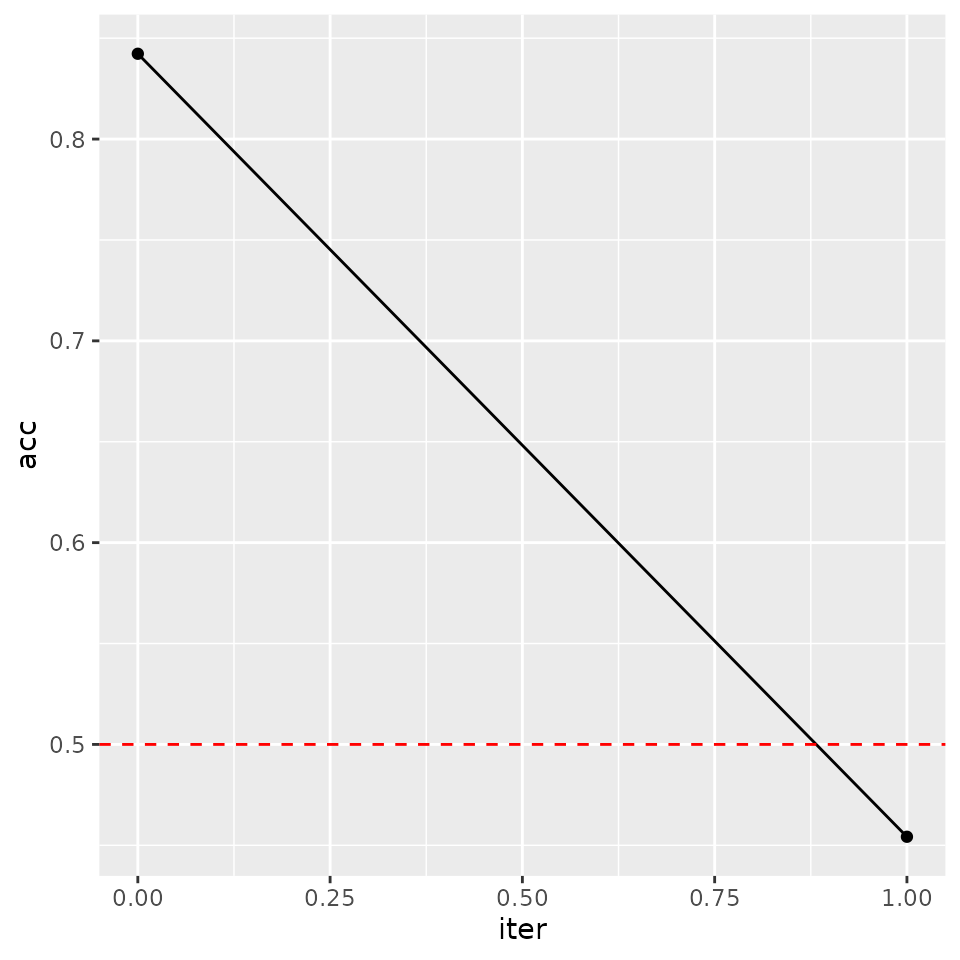
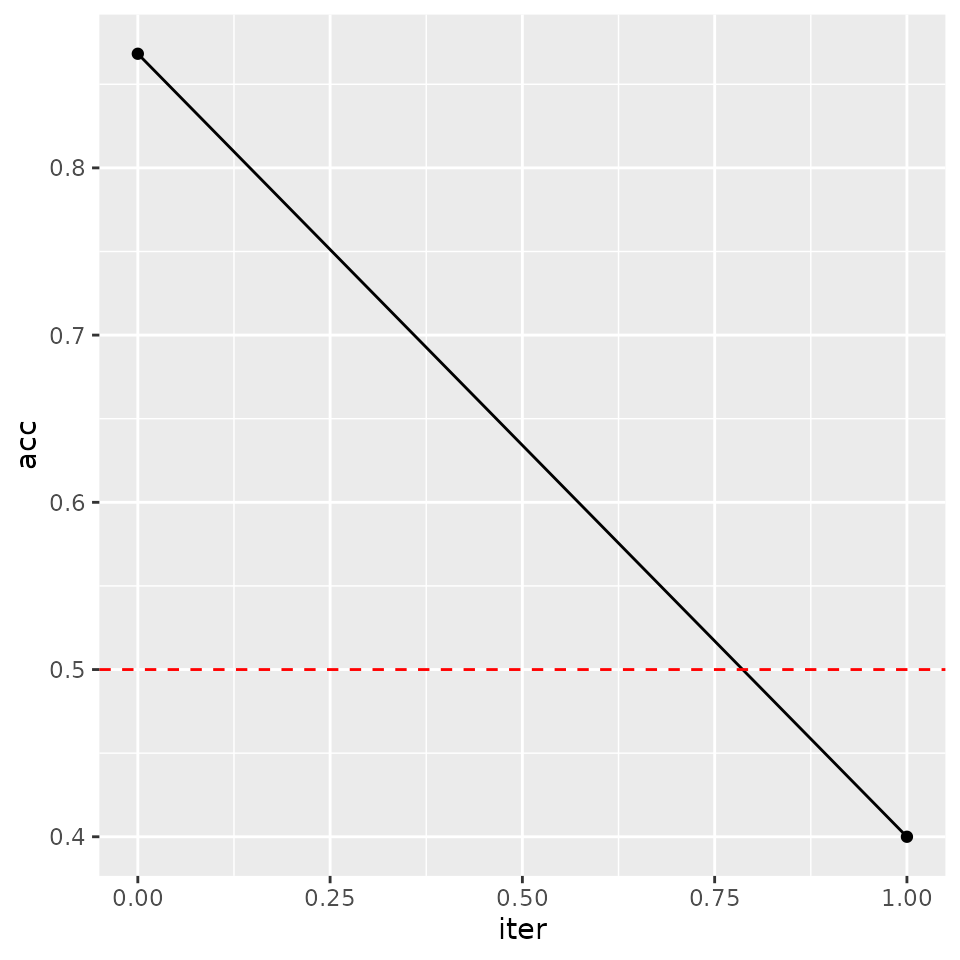
Deploying to gh-pages from @ bips-hb/arf@7e606f576e50f99192aab383e6873d7377e45529 🚀

diff --git a/articles/density_estimation.html b/articles/density_estimation.html
@@ -97,9 +97,9 @@ accuracy at each iteration.</p>
 <span></span>
 <span><span class="co"># Train ARF</span></span>
 <span><span class="va">arf</span> <span class="op">&lt;-</span> <span class="fu"><a href="../reference/adversarial_rf.html">adversarial_rf</a></span><span class="op">(</span><span class="va">iris</span><span class="op">)</span></span>
-<span><span class="co">#&gt; Iteration: 0, Accuracy: 82.94%</span></span>
+<span><span class="co">#&gt; Iteration: 0, Accuracy: 88%</span></span>
 <span><span class="co">#&gt; Warning: executing %dopar% sequentially: no parallel backend registered</span></span>
-<span><span class="co">#&gt; Iteration: 1, Accuracy: 42.62%</span></span></code></pre></div>
+<span><span class="co">#&gt; Iteration: 1, Accuracy: 39.86%</span></span></code></pre></div>
 <p>The printouts can be turned off by setting
 <code>verbose = FALSE</code>. Accuracy is still stored within the
 <code>arf</code> object, so you can evaluate convergence after the
@@ -127,16 +127,18 @@ incur extra costs in time and memory. We can speed up computations by
 registering a parallel backend, in which case ARF training is
 distributed across cores using the <code>ranger</code> package. Much
 like with <code>ranger</code>, the default behavior of
-<code>adversarial_rf</code> is to compute in parallel if possible.</p>
+<code>adversarial_rf</code> is to compute in parallel if possible. How
+exactly this is done varies across operating systems; the following code
+works on Unix machines.</p>
 <div class="sourceCode" id="cb3"><pre class="downlit sourceCode r">
-<code class="sourceCode R"><span><span class="kw"><a href="https://rdrr.io/r/base/library.html" class="external-link">library</a></span><span class="op">(</span><span class="va"><a href="https://github.com/RevolutionAnalytics/doparallel" class="external-link">doParallel</a></span><span class="op">)</span></span>
-<span><span class="co">#&gt; Loading required package: foreach</span></span>
-<span><span class="co">#&gt; Loading required package: iterators</span></span>
-<span><span class="co">#&gt; Loading required package: parallel</span></span>
-<span><span class="fu"><a href="https://rdrr.io/pkg/doParallel/man/registerDoParallel.html" class="external-link">registerDoParallel</a></span><span class="op">(</span>cores <span class="op">=</span> <span class="fl">2</span><span class="op">)</span></span>
+<code class="sourceCode R"><span><span class="co"># Register cores</span></span>
+<span><span class="kw"><a href="https://rdrr.io/r/base/library.html" class="external-link">library</a></span><span class="op">(</span><span class="va"><a href="https://github.com/RevolutionAnalytics/doparallel" class="external-link">doParallel</a></span><span class="op">)</span></span>
+<span><span class="fu"><a href="https://rdrr.io/pkg/doParallel/man/registerDoParallel.html" class="external-link">registerDoParallel</a></span><span class="op">(</span>cores <span class="op">=</span> <span class="fl">2</span><span class="op">)</span></span></code></pre></div>
+<div class="sourceCode" id="cb4"><pre class="downlit sourceCode r">
+<code class="sourceCode R"><span><span class="co"># Rerun ARF, now in parallel and with more trees</span></span>
 <span><span class="va">arf</span> <span class="op">&lt;-</span> <span class="fu"><a href="../reference/adversarial_rf.html">adversarial_rf</a></span><span class="op">(</span><span class="va">iris</span>, num_trees <span class="op">=</span> <span class="fl">100</span><span class="op">)</span></span>
-<span><span class="co">#&gt; Iteration: 0, Accuracy: 93.67%</span></span>
-<span><span class="co">#&gt; Iteration: 1, Accuracy: 42%</span></span></code></pre></div>
+<span><span class="co">#&gt; Iteration: 0, Accuracy: 90.67%</span></span>
+<span><span class="co">#&gt; Iteration: 1, Accuracy: 34.33%</span></span></code></pre></div>
 <p>The result is an object of class <code>ranger</code>, which we can
 input to downstream functions.</p>
 <p>The next step is to learn the leaf and distribution parameters using
@@ -146,7 +148,7 @@ leaf. This can be an expensive computation for large datasets, as it
 requires <span class="math inline">\(\mathcal{O}\big(B \cdot d \cdot n
 \cdot log(n)\big)\)</span> operations, where <span class="math inline">\(B\)</span> is the number of trees, <span class="math inline">\(n\)</span> is sample size, and <span class="math inline">\(d\)</span> is the data dimensionality. Once again,
 the process is parallelized by default.</p>
-<div class="sourceCode" id="cb4"><pre class="downlit sourceCode r">
+<div class="sourceCode" id="cb5"><pre class="downlit sourceCode r">
 <code class="sourceCode R"><span><span class="va">params</span> <span class="op">&lt;-</span> <span class="fu"><a href="../reference/forde.html">forde</a></span><span class="op">(</span><span class="va">arf</span>, <span class="va">iris</span><span class="op">)</span></span></code></pre></div>
 <p>Default behavior is to use a truncated normal distribution for
 continuous data (with boundaries given by the tree’s split parameters)
@@ -155,7 +157,7 @@ produces solid results in a wide range of settings. You can also use a
 uniform distribution for continuous features by setting
 <code>family = 'unif'</code>, thereby instantiating a piecewise constant
 density estimator.</p>
-<div class="sourceCode" id="cb5"><pre class="downlit sourceCode r">
+<div class="sourceCode" id="cb6"><pre class="downlit sourceCode r">
 <code class="sourceCode R"><span><span class="va">params_unif</span> <span class="op">&lt;-</span> <span class="fu"><a href="../reference/forde.html">forde</a></span><span class="op">(</span><span class="va">arf</span>, <span class="va">iris</span>, family <span class="op">=</span> <span class="st">'unif'</span><span class="op">)</span></span></code></pre></div>
 <p>This method tends to perform poorly in practice, and we do not
 recommend it. The option is implemented primarily for benchmarking
@@ -165,49 +167,49 @@ expand the range of options for this argument.</p>
 <p>The <code>forde</code> function outputs a list of length 4, with
 entries for (1) continuous features; (2) categorical features; (3) leaf
 parameters; and (4) variable metadata.</p>
-<div class="sourceCode" id="cb6"><pre class="downlit sourceCode r">
+<div class="sourceCode" id="cb7"><pre class="downlit sourceCode r">
 <code class="sourceCode R"><span><span class="va">params</span></span>
 <span><span class="co">#&gt; $cnt</span></span>
-<span><span class="co">#&gt;           variable  min max f_idx       mu      sigma</span></span>
-<span><span class="co">#&gt;    1: Sepal.Length -Inf Inf     8 4.937500 0.21960375</span></span>
-<span><span class="co">#&gt;    2: Sepal.Length -Inf Inf     7 4.657143 0.28199966</span></span>
-<span><span class="co">#&gt;    3: Sepal.Length -Inf Inf    19 5.475000 0.15000000</span></span>
-<span><span class="co">#&gt;    4: Sepal.Length -Inf Inf    18 5.433333 0.05773503</span></span>
-<span><span class="co">#&gt;    5: Sepal.Length 5.35 Inf     9 5.666667 0.15275252</span></span>
-<span><span class="co">#&gt;   ---                                                </span></span>
-<span><span class="co">#&gt; 6312:  Petal.Width -Inf Inf  1571 2.145455 0.25441555</span></span>
-<span><span class="co">#&gt; 6313:  Petal.Width -Inf Inf  1578 1.983333 0.23166067</span></span>
-<span><span class="co">#&gt; 6314:  Petal.Width -Inf Inf  1574 2.052941 0.30642627</span></span>
-<span><span class="co">#&gt; 6315:  Petal.Width 1.90 Inf  1568 2.100000 0.14142136</span></span>
-<span><span class="co">#&gt; 6316:  Petal.Width 1.95 Inf  1575 2.200000 0.17320508</span></span>
+<span><span class="co">#&gt;           variable  min  max f_idx       mu      sigma</span></span>
+<span><span class="co">#&gt;    1: Sepal.Length -Inf  Inf     9 5.004000 0.27306898</span></span>
+<span><span class="co">#&gt;    2: Sepal.Length -Inf 5.25     1 4.612500 0.26958964</span></span>
+<span><span class="co">#&gt;    3: Sepal.Length -Inf  Inf     8 5.040000 0.23664319</span></span>
+<span><span class="co">#&gt;    4: Sepal.Length -Inf  Inf     2 5.566667 0.20816660</span></span>
+<span><span class="co">#&gt;    5: Sepal.Length -Inf  Inf     4 5.700000 0.10314940</span></span>
+<span><span class="co">#&gt;   ---                                                 </span></span>
+<span><span class="co">#&gt; 6820:  Petal.Width -Inf  Inf  1706 1.342857 0.05345225</span></span>
+<span><span class="co">#&gt; 6821:  Petal.Width -Inf  Inf  1699 1.200000 0.35361911</span></span>
+<span><span class="co">#&gt; 6822:  Petal.Width 1.45  Inf  1701 2.082143 0.26112800</span></span>
+<span><span class="co">#&gt; 6823:  Petal.Width -Inf  Inf  1703 1.966667 0.22509257</span></span>
+<span><span class="co">#&gt; 6824:  Petal.Width -Inf  Inf  1688 2.114286 0.15735916</span></span>
 <span><span class="co">#&gt; </span></span>
 <span><span class="co">#&gt; $cat</span></span>
 <span><span class="co">#&gt;       variable       val      prob f_idx</span></span>
-<span><span class="co">#&gt;    1:  Species    setosa 1.0000000     8</span></span>
-<span><span class="co">#&gt;    2:  Species    setosa 1.0000000     7</span></span>
-<span><span class="co">#&gt;    3:  Species    setosa 1.0000000    19</span></span>
-<span><span class="co">#&gt;    4:  Species    setosa 1.0000000    18</span></span>
-<span><span class="co">#&gt;    5:  Species    setosa 1.0000000     9</span></span>
+<span><span class="co">#&gt;    1:  Species    setosa 1.0000000     9</span></span>
+<span><span class="co">#&gt;    2:  Species    setosa 1.0000000     1</span></span>
+<span><span class="co">#&gt;    3:  Species    setosa 1.0000000     8</span></span>
+<span><span class="co">#&gt;    4:  Species    setosa 1.0000000     2</span></span>
+<span><span class="co">#&gt;    5:  Species    setosa 1.0000000     4</span></span>
 <span><span class="co">#&gt;   ---                                   </span></span>
-<span><span class="co">#&gt; 1870:  Species virginica 0.2857143  1579</span></span>
-<span><span class="co">#&gt; 1871:  Species virginica 0.3076923  1577</span></span>
-<span><span class="co">#&gt; 1872:  Species virginica 1.0000000  1568</span></span>
-<span><span class="co">#&gt; 1873:  Species virginica 0.2000000  1573</span></span>
-<span><span class="co">#&gt; 1874:  Species virginica 1.0000000  1575</span></span>
+<span><span class="co">#&gt; 2135:  Species virginica 1.0000000  1703</span></span>
+<span><span class="co">#&gt; 2136:  Species virginica 0.8333333  1695</span></span>
+<span><span class="co">#&gt; 2137:  Species virginica 1.0000000  1688</span></span>
+<span><span class="co">#&gt; 2138:  Species virginica 0.6000000  1700</span></span>
+<span><span class="co">#&gt; 2139:  Species virginica 0.1428571  1706</span></span>
 <span><span class="co">#&gt; </span></span>
 <span><span class="co">#&gt; $forest</span></span>
 <span><span class="co">#&gt;       f_idx tree leaf        cvg</span></span>
-<span><span class="co">#&gt;    1:     1    1   20 0.03333333</span></span>
-<span><span class="co">#&gt;    2:     2    1   22 0.03333333</span></span>
-<span><span class="co">#&gt;    3:     3    1   31 0.02000000</span></span>
-<span><span class="co">#&gt;    4:     4    1   40 0.08000000</span></span>
-<span><span class="co">#&gt;    5:     5    1   41 0.02666667</span></span>
+<span><span class="co">#&gt;    1:     1    1    8 0.05333333</span></span>
+<span><span class="co">#&gt;    2:     2    1   14 0.02000000</span></span>
+<span><span class="co">#&gt;    3:     3    1   25 0.02000000</span></span>
+<span><span class="co">#&gt;    4:     4    1   33 0.01333333</span></span>
+<span><span class="co">#&gt;    5:     5    1   35 0.02000000</span></span>
 <span><span class="co">#&gt;   ---                           </span></span>
-<span><span class="co">#&gt; 1575:  1575  100   69 0.02000000</span></span>
-<span><span class="co">#&gt; 1576:  1576  100   72 0.08000000</span></span>
-<span><span class="co">#&gt; 1577:  1577  100   77 0.17333333</span></span>
-<span><span class="co">#&gt; 1578:  1578  100   80 0.04000000</span></span>
-<span><span class="co">#&gt; 1579:  1579  100   84 0.04666667</span></span>
+<span><span class="co">#&gt; 1702:  1702  100   82 0.09333333</span></span>
+<span><span class="co">#&gt; 1703:  1703  100   85 0.04000000</span></span>
+<span><span class="co">#&gt; 1704:  1704  100   87 0.02666667</span></span>
+<span><span class="co">#&gt; 1705:  1705  100   88 0.05333333</span></span>
+<span><span class="co">#&gt; 1706:  1706  100   90 0.04666667</span></span>
 <span><span class="co">#&gt; </span></span>
 <span><span class="co">#&gt; $meta</span></span>
 <span><span class="co">#&gt;        variable   class    family</span></span>
@@ -219,16 +221,16 @@ parameters; and (4) variable metadata.</p>
 <p>To calculate log-likelihoods, we pass <code>arf</code> and
 <code>params</code> on to the <code>lik</code> function, along with the
 data whose likelihood we want to evaluate.</p>
-<div class="sourceCode" id="cb7"><pre class="downlit sourceCode r">
+<div class="sourceCode" id="cb8"><pre class="downlit sourceCode r">
 <code class="sourceCode R"><span><span class="co"># Compute likelihood under truncated normal and uniform distributions</span></span>
 <span><span class="va">ll</span> <span class="op">&lt;-</span> <span class="fu"><a href="../reference/lik.html">lik</a></span><span class="op">(</span><span class="va">arf</span>, <span class="va">params</span>, <span class="va">iris</span><span class="op">)</span></span>
 <span><span class="va">ll_unif</span> <span class="op">&lt;-</span> <span class="fu"><a href="../reference/lik.html">lik</a></span><span class="op">(</span><span class="va">arf</span>, <span class="va">params_unif</span>, <span class="va">iris</span><span class="op">)</span></span>
 <span></span>
 <span><span class="co"># Compare average negative log-likelihood (lower is better)</span></span>
 <span><span class="op">-</span><span class="fu"><a href="https://rdrr.io/r/base/mean.html" class="external-link">mean</a></span><span class="op">(</span><span class="va">ll</span><span class="op">)</span></span>
-<span><span class="co">#&gt; [1] 0.6705894</span></span>
+<span><span class="co">#&gt; [1] 0.6161535</span></span>
 <span><span class="op">-</span><span class="fu"><a href="https://rdrr.io/r/base/mean.html" class="external-link">mean</a></span><span class="op">(</span><span class="va">ll_unif</span><span class="op">)</span></span>
-<span><span class="co">#&gt; [1] 5.956625</span></span></code></pre></div>
+<span><span class="co">#&gt; [1] 5.969626</span></span></code></pre></div>
 <p>Note that the piecewise constant estimator does considerably worse in
 this experiment.</p>
 <div class="section level2">
@@ -255,7 +257,7 @@ count data with limited support (e.g., number of petals on a plant).
 However, this is probably not the desired behavior for other integer
 variables. Consider the <code>diamonds</code> dataset, where
 <code>price</code> is classed as an integer.</p>
-<div class="sourceCode" id="cb8"><pre class="downlit sourceCode r">
+<div class="sourceCode" id="cb9"><pre class="downlit sourceCode r">
 <code class="sourceCode R"><span><span class="co"># Check data</span></span>
 <span><span class="fu"><a href="https://rdrr.io/r/utils/head.html" class="external-link">head</a></span><span class="op">(</span><span class="va">diamonds</span><span class="op">)</span></span>
 <span><span class="co">#&gt; <span style="color: #949494;"># A tibble: 6 × 10</span></span></span>
@@ -271,7 +273,7 @@ variables. Consider the <code>diamonds</code> dataset, where
 <span><span class="co"># View the distribution</span></span>
 <span><span class="fu"><a href="https://rdrr.io/r/graphics/hist.html" class="external-link">hist</a></span><span class="op">(</span><span class="va">diamonds</span><span class="op">$</span><span class="va">price</span><span class="op">)</span></span></code></pre></div>
 <p><img src="density_estimation_files/figure-html/price-1.png" width="480"></p>
-<div class="sourceCode" id="cb9"><pre class="downlit sourceCode r">
+<div class="sourceCode" id="cb10"><pre class="downlit sourceCode r">
 <code class="sourceCode R"><span></span>
 <span><span class="co"># How many unique prices?</span></span>
 <span><span class="fu"><a href="https://rdrr.io/r/base/length.html" class="external-link">length</a></span><span class="op">(</span><span class="fu"><a href="https://rdrr.io/r/base/unique.html" class="external-link">unique</a></span><span class="op">(</span><span class="va">diamonds</span><span class="op">$</span><span class="va">price</span><span class="op">)</span><span class="op">)</span></span>
@@ -279,14 +281,14 @@ variables. Consider the <code>diamonds</code> dataset, where
 <p>This variable should clearly not be treated as a factor with 11602
 levels. To make sure we fit a continuous density for price, we re-class
 the feature as numeric.</p>
-<div class="sourceCode" id="cb10"><pre class="downlit sourceCode r">
+<div class="sourceCode" id="cb11"><pre class="downlit sourceCode r">
 <code class="sourceCode R"><span><span class="co"># Re-class </span></span>
 <span><span class="va">diamonds</span><span class="op">$</span><span class="va">price</span> <span class="op">&lt;-</span> <span class="fu"><a href="https://rdrr.io/r/base/numeric.html" class="external-link">as.numeric</a></span><span class="op">(</span><span class="va">diamonds</span><span class="op">$</span><span class="va">price</span><span class="op">)</span></span>
 <span></span>
 <span><span class="co"># Just taking first 100 observations as an example</span></span>
 <span><span class="va">arf</span> <span class="op">&lt;-</span> <span class="fu"><a href="../reference/adversarial_rf.html">adversarial_rf</a></span><span class="op">(</span><span class="va">diamonds</span><span class="op">[</span><span class="fl">1</span><span class="op">:</span><span class="fl">100</span>, <span class="op">]</span><span class="op">)</span></span>
-<span><span class="co">#&gt; Iteration: 0, Accuracy: 78.79%</span></span>
-<span><span class="co">#&gt; Iteration: 1, Accuracy: 45.5%</span></span>
+<span><span class="co">#&gt; Iteration: 0, Accuracy: 79.9%</span></span>
+<span><span class="co">#&gt; Iteration: 1, Accuracy: 42.13%</span></span>
 <span></span>
 <span><span class="co"># Fit density</span></span>
 <span><span class="va">params</span> <span class="op">&lt;-</span> <span class="fu"><a href="../reference/forde.html">forde</a></span><span class="op">(</span><span class="va">arf</span>, <span class="va">diamonds</span><span class="op">[</span><span class="fl">1</span><span class="op">:</span><span class="fl">100</span>, <span class="op">]</span><span class="op">)</span></span>

diff --git a/reference/forde.html b/reference/forde.html
@@ -147,51 +147,51 @@ treatment effects using random forests. <em>J. Am. Stat. Assoc.</em>,
     <div class="section level2">
     <h2 id="ref-examples">Examples<a class="anchor" aria-label="anchor" href="#ref-examples"></a></h2>
     <div class="sourceCode"><pre class="sourceCode r"><code><span class="r-in"><span><span class="va">arf</span> <span class="op">&lt;-</span> <span class="fu"><a href="adversarial_rf.html">adversarial_rf</a></span><span class="op">(</span><span class="va">iris</span><span class="op">)</span></span></span>
-<span class="r-out co"><span class="r-pr">#&gt;</span> Iteration: 0, Accuracy: 81.63%</span>
-<span class="r-out co"><span class="r-pr">#&gt;</span> Iteration: 1, Accuracy: 42.14%</span>
+<span class="r-out co"><span class="r-pr">#&gt;</span> Iteration: 0, Accuracy: 88.59%</span>
+<span class="r-out co"><span class="r-pr">#&gt;</span> Iteration: 1, Accuracy: 45.08%</span>
 <span class="r-in"><span><span class="va">psi</span> <span class="op">&lt;-</span> <span class="fu">forde</span><span class="op">(</span><span class="va">arf</span>, <span class="va">iris</span><span class="op">)</span></span></span>
 <span class="r-in"><span><span class="fu"><a href="https://rdrr.io/r/utils/head.html" class="external-link">head</a></span><span class="op">(</span><span class="va">psi</span><span class="op">)</span></span></span>
 <span class="r-out co"><span class="r-pr">#&gt;</span> $cnt</span>
 <span class="r-out co"><span class="r-pr">#&gt;</span>          variable  min  max f_idx       mu      sigma</span>
-<span class="r-out co"><span class="r-pr">#&gt;</span>   1: Sepal.Length -Inf  Inf     9 5.169697 0.28883911</span>
-<span class="r-out co"><span class="r-pr">#&gt;</span>   2: Sepal.Length -Inf  Inf    13 4.900000 0.10000000</span>
-<span class="r-out co"><span class="r-pr">#&gt;</span>   3: Sepal.Length -Inf  Inf    14 4.680000 0.21679483</span>
-<span class="r-out co"><span class="r-pr">#&gt;</span>   4: Sepal.Length -Inf  Inf    11 4.800000 0.14142136</span>
-<span class="r-out co"><span class="r-pr">#&gt;</span>   5: Sepal.Length -Inf 4.65     8 4.433333 0.05773503</span>
+<span class="r-out co"><span class="r-pr">#&gt;</span>   1: Sepal.Length 4.85  Inf     5 5.191176 0.24663511</span>
+<span class="r-out co"><span class="r-pr">#&gt;</span>   2: Sepal.Length 4.70 4.85     9 4.771429 0.04879500</span>
+<span class="r-out co"><span class="r-pr">#&gt;</span>   3: Sepal.Length -Inf 4.70     8 4.520000 0.10954451</span>
+<span class="r-out co"><span class="r-pr">#&gt;</span>   4: Sepal.Length -Inf  Inf     4 4.450000 0.07071068</span>
+<span class="r-out co"><span class="r-pr">#&gt;</span>   5: Sepal.Length -Inf  Inf     1 4.450000 0.21213203</span>
 <span class="r-out co"><span class="r-pr">#&gt;</span>  ---                                                 </span>
-<span class="r-out co"><span class="r-pr">#&gt;</span> 772:  Petal.Width -Inf  Inf   188 1.716667 0.24832774</span>
-<span class="r-out co"><span class="r-pr">#&gt;</span> 773:  Petal.Width -Inf  Inf   194 2.233333 0.37859389</span>
-<span class="r-out co"><span class="r-pr">#&gt;</span> 774:  Petal.Width -Inf  Inf   190 2.091667 0.24301846</span>
-<span class="r-out co"><span class="r-pr">#&gt;</span> 775:  Petal.Width -Inf  Inf   193 2.010000 0.25582112</span>
-<span class="r-out co"><span class="r-pr">#&gt;</span> 776:  Petal.Width -Inf  Inf   189 2.166667 0.32145503</span>
+<span class="r-out co"><span class="r-pr">#&gt;</span> 656:  Petal.Width 2.05  Inf   154 2.269231 0.14935760</span>
+<span class="r-out co"><span class="r-pr">#&gt;</span> 657:  Petal.Width -Inf  Inf   162 1.950000 0.20000000</span>
+<span class="r-out co"><span class="r-pr">#&gt;</span> 658:  Petal.Width -Inf  Inf   152 2.050000 0.25405797</span>
+<span class="r-out co"><span class="r-pr">#&gt;</span> 659:  Petal.Width -Inf  Inf   155 1.720000 0.17888544</span>
+<span class="r-out co"><span class="r-pr">#&gt;</span> 660:  Petal.Width -Inf  Inf   158 1.980000 0.26161889</span>
 <span class="r-out co"><span class="r-pr">#&gt;</span> </span>
 <span class="r-out co"><span class="r-pr">#&gt;</span> $cat</span>
 <span class="r-out co"><span class="r-pr">#&gt;</span>      variable       val      prob f_idx</span>
-<span class="r-out co"><span class="r-pr">#&gt;</span>   1:  Species    setosa 1.0000000     9</span>
-<span class="r-out co"><span class="r-pr">#&gt;</span>   2:  Species    setosa 1.0000000    13</span>
-<span class="r-out co"><span class="r-pr">#&gt;</span>   3:  Species    setosa 1.0000000    14</span>
-<span class="r-out co"><span class="r-pr">#&gt;</span>   4:  Species    setosa 1.0000000    11</span>
-<span class="r-out co"><span class="r-pr">#&gt;</span>   5:  Species    setosa 1.0000000     8</span>
+<span class="r-out co"><span class="r-pr">#&gt;</span>   1:  Species    setosa 1.0000000     5</span>
+<span class="r-out co"><span class="r-pr">#&gt;</span>   2:  Species    setosa 1.0000000     9</span>
+<span class="r-out co"><span class="r-pr">#&gt;</span>   3:  Species    setosa 1.0000000     8</span>
+<span class="r-out co"><span class="r-pr">#&gt;</span>   4:  Species    setosa 1.0000000     4</span>
+<span class="r-out co"><span class="r-pr">#&gt;</span>   5:  Species    setosa 1.0000000     1</span>
 <span class="r-out co"><span class="r-pr">#&gt;</span>  ---                                   </span>
-<span class="r-out co"><span class="r-pr">#&gt;</span> 222:  Species virginica 1.0000000   190</span>
-<span class="r-out co"><span class="r-pr">#&gt;</span> 223:  Species virginica 0.2000000   180</span>
-<span class="r-out co"><span class="r-pr">#&gt;</span> 224:  Species virginica 1.0000000   193</span>
-<span class="r-out co"><span class="r-pr">#&gt;</span> 225:  Species virginica 1.0000000   189</span>
-<span class="r-out co"><span class="r-pr">#&gt;</span> 226:  Species virginica 0.1666667   185</span>
+<span class="r-out co"><span class="r-pr">#&gt;</span> 182:  Species virginica 1.0000000   152</span>
+<span class="r-out co"><span class="r-pr">#&gt;</span> 183:  Species virginica 1.0000000   155</span>
+<span class="r-out co"><span class="r-pr">#&gt;</span> 184:  Species virginica 0.1428571   160</span>
+<span class="r-out co"><span class="r-pr">#&gt;</span> 185:  Species virginica 1.0000000   158</span>
+<span class="r-out co"><span class="r-pr">#&gt;</span> 186:  Species virginica 0.2500000   153</span>
 <span class="r-out co"><span class="r-pr">#&gt;</span> </span>
 <span class="r-out co"><span class="r-pr">#&gt;</span> $forest</span>
 <span class="r-out co"><span class="r-pr">#&gt;</span>      f_idx tree leaf        cvg</span>
-<span class="r-out co"><span class="r-pr">#&gt;</span>   1:     1    1   21 0.02666667</span>
-<span class="r-out co"><span class="r-pr">#&gt;</span>   2:     2    1   25 0.04666667</span>
-<span class="r-out co"><span class="r-pr">#&gt;</span>   3:     3    1   31 0.03333333</span>
-<span class="r-out co"><span class="r-pr">#&gt;</span>   4:     4    1   34 0.02666667</span>
-<span class="r-out co"><span class="r-pr">#&gt;</span>   5:     5    1   35 0.01333333</span>
+<span class="r-out co"><span class="r-pr">#&gt;</span>   1:     1    1    2 0.01333333</span>
+<span class="r-out co"><span class="r-pr">#&gt;</span>   2:     2    1    8 0.02000000</span>
+<span class="r-out co"><span class="r-pr">#&gt;</span>   3:     3    1   20 0.08666667</span>
+<span class="r-out co"><span class="r-pr">#&gt;</span>   4:     4    1   28 0.01333333</span>
+<span class="r-out co"><span class="r-pr">#&gt;</span>   5:     5    1   31 0.22666667</span>
 <span class="r-out co"><span class="r-pr">#&gt;</span>  ---                           </span>
-<span class="r-out co"><span class="r-pr">#&gt;</span> 190:   190   10   77 0.16000000</span>
-<span class="r-out co"><span class="r-pr">#&gt;</span> 191:   191   10   78 0.02000000</span>
-<span class="r-out co"><span class="r-pr">#&gt;</span> 192:   192   10   79 0.05333333</span>
-<span class="r-out co"><span class="r-pr">#&gt;</span> 193:   193   10   81 0.06666667</span>
-<span class="r-out co"><span class="r-pr">#&gt;</span> 194:   194   10   83 0.02000000</span>
+<span class="r-out co"><span class="r-pr">#&gt;</span> 161:   161   10   60 0.02000000</span>
+<span class="r-out co"><span class="r-pr">#&gt;</span> 162:   162   10   67 0.05333333</span>
+<span class="r-out co"><span class="r-pr">#&gt;</span> 163:   163   10   68 0.06000000</span>
+<span class="r-out co"><span class="r-pr">#&gt;</span> 164:   164   10   73 0.17333333</span>
+<span class="r-out co"><span class="r-pr">#&gt;</span> 165:   165   10   74 0.03333333</span>
 <span class="r-out co"><span class="r-pr">#&gt;</span> </span>
 <span class="r-out co"><span class="r-pr">#&gt;</span> $meta</span>
 <span class="r-out co"><span class="r-pr">#&gt;</span>        variable   class    family</span>

diff --git a/articles/generative_modeling.html b/articles/generative_modeling.html
@@ -82,22 +82,22 @@
 <code class="sourceCode R"><span><span class="kw"><a href="https://rdrr.io/r/base/library.html" class="external-link">library</a></span><span class="op">(</span><span class="va"><a href="https://github.com/bips-hb/arf" class="external-link">arf</a></span><span class="op">)</span></span></code></pre></div>
 <div class="sourceCode" id="cb2"><pre class="downlit sourceCode r">
 <code class="sourceCode R"><span><span class="va">arf</span> <span class="op">&lt;-</span> <span class="fu"><a href="../reference/adversarial_rf.html">adversarial_rf</a></span><span class="op">(</span><span class="va">iris</span><span class="op">)</span></span>
-<span><span class="co">#&gt; Iteration: 0, Accuracy: 84.28%</span></span>
+<span><span class="co">#&gt; Iteration: 0, Accuracy: 86.2%</span></span>
 <span><span class="co">#&gt; Warning: executing %dopar% sequentially: no parallel backend registered</span></span>
-<span><span class="co">#&gt; Iteration: 1, Accuracy: 37.25%</span></span>
+<span><span class="co">#&gt; Iteration: 1, Accuracy: 39.73%</span></span>
 <span><span class="va">psi</span> <span class="op">&lt;-</span> <span class="fu"><a href="../reference/forde.html">forde</a></span><span class="op">(</span><span class="va">arf</span>, <span class="va">iris</span><span class="op">)</span></span>
 <span><span class="fu"><a href="../reference/forge.html">forge</a></span><span class="op">(</span><span class="va">psi</span>, <span class="fl">10</span><span class="op">)</span></span>
 <span><span class="co">#&gt;    Sepal.Length Sepal.Width Petal.Length Petal.Width    Species</span></span>
-<span><span class="co">#&gt; 1      5.969622    2.492279     4.176790   1.2949865 versicolor</span></span>
-<span><span class="co">#&gt; 2      6.204253    2.922223     4.471465   1.4069331 versicolor</span></span>
-<span><span class="co">#&gt; 3      7.417898    2.745332     5.968735   1.9354033  virginica</span></span>
-<span><span class="co">#&gt; 4      6.414704    3.258788     5.722044   2.1105311  virginica</span></span>
-<span><span class="co">#&gt; 5      4.808401    3.994240     1.521707   0.1026415     setosa</span></span>
-<span><span class="co">#&gt; 6      6.935062    3.050387     5.538492   2.1366337  virginica</span></span>
-<span><span class="co">#&gt; 7      6.712528    3.580459     5.279693   2.4764195  virginica</span></span>
-<span><span class="co">#&gt; 8      5.797435    2.910276     4.907108   1.8199890  virginica</span></span>
-<span><span class="co">#&gt; 9      5.158593    2.243859     3.548097   1.0461939 versicolor</span></span>
-<span><span class="co">#&gt; 10     7.126135    3.262072     5.923498   2.5126423  virginica</span></span></code></pre></div>
+<span><span class="co">#&gt; 1      5.230031    2.384007     3.992228   1.1013335 versicolor</span></span>
+<span><span class="co">#&gt; 2      7.138715    2.956494     5.610430   1.8159967  virginica</span></span>
+<span><span class="co">#&gt; 3      6.242036    2.298465     3.655061   1.2354872 versicolor</span></span>
+<span><span class="co">#&gt; 4      4.604049    3.384116     1.053055   0.3580540     setosa</span></span>
+<span><span class="co">#&gt; 5      6.045571    2.166081     4.202159   0.8549038 versicolor</span></span>
+<span><span class="co">#&gt; 6      6.180591    3.000164     4.508732   1.3487275 versicolor</span></span>
+<span><span class="co">#&gt; 7      5.074221    2.244704     3.227172   0.9863810 versicolor</span></span>
+<span><span class="co">#&gt; 8      6.447015    3.210410     4.771898   1.3852445 versicolor</span></span>
+<span><span class="co">#&gt; 9      5.624956    2.958557     4.255868   1.1668476 versicolor</span></span>
+<span><span class="co">#&gt; 10     4.873172    3.718321     1.550694   0.2928269     setosa</span></span></code></pre></div>
   </main>
 </div>
 

diff --git a/reference/lik.html b/reference/lik.html
@@ -123,12 +123,12 @@ forests for density estimation and generative modeling. <em>arXiv</em> preprint,
     <h2 id="ref-examples">Examples<a class="anchor" aria-label="anchor" href="#ref-examples"></a></h2>
     <div class="sourceCode"><pre class="sourceCode r"><code><span class="r-in"><span><span class="co"># Estimate average log-likelihood</span></span></span>
 <span class="r-in"><span><span class="va">arf</span> <span class="op">&lt;-</span> <span class="fu"><a href="adversarial_rf.html">adversarial_rf</a></span><span class="op">(</span><span class="va">iris</span><span class="op">)</span></span></span>
-<span class="r-out co"><span class="r-pr">#&gt;</span> Iteration: 0, Accuracy: 90.64%</span>
-<span class="r-out co"><span class="r-pr">#&gt;</span> Iteration: 1, Accuracy: 41.14%</span>
+<span class="r-out co"><span class="r-pr">#&gt;</span> Iteration: 0, Accuracy: 87.21%</span>
+<span class="r-out co"><span class="r-pr">#&gt;</span> Iteration: 1, Accuracy: 39.06%</span>
 <span class="r-in"><span><span class="va">psi</span> <span class="op">&lt;-</span> <span class="fu"><a href="forde.html">forde</a></span><span class="op">(</span><span class="va">arf</span>, <span class="va">iris</span><span class="op">)</span></span></span>
 <span class="r-in"><span><span class="va">ll</span> <span class="op">&lt;-</span> <span class="fu">lik</span><span class="op">(</span><span class="va">arf</span>, <span class="va">psi</span>, <span class="va">iris</span>, log <span class="op">=</span> <span class="cn">TRUE</span><span class="op">)</span></span></span>
 <span class="r-in"><span><span class="fu"><a href="https://rdrr.io/r/base/mean.html" class="external-link">mean</a></span><span class="op">(</span><span class="va">ll</span><span class="op">)</span></span></span>
-<span class="r-out co"><span class="r-pr">#&gt;</span> [1] -0.847309</span>
+<span class="r-out co"><span class="r-pr">#&gt;</span> [1] -0.9994984</span>
 <span class="r-in"><span></span></span>
 <span class="r-in"><span></span></span>
 </code></pre></div>

diff --git a/reference/forge.html b/reference/forge.html
@@ -102,8 +102,8 @@ forests for density estimation and generative modeling. <em>arXiv</em> preprint,
     <div class="section level2">
     <h2 id="ref-examples">Examples<a class="anchor" aria-label="anchor" href="#ref-examples"></a></h2>
     <div class="sourceCode"><pre class="sourceCode r"><code><span class="r-in"><span><span class="va">arf</span> <span class="op">&lt;-</span> <span class="fu"><a href="adversarial_rf.html">adversarial_rf</a></span><span class="op">(</span><span class="va">iris</span><span class="op">)</span></span></span>
-<span class="r-out co"><span class="r-pr">#&gt;</span> Iteration: 0, Accuracy: 85.81%</span>
-<span class="r-out co"><span class="r-pr">#&gt;</span> Iteration: 1, Accuracy: 39.46%</span>
+<span class="r-out co"><span class="r-pr">#&gt;</span> Iteration: 0, Accuracy: 89.93%</span>
+<span class="r-out co"><span class="r-pr">#&gt;</span> Iteration: 1, Accuracy: 43.73%</span>
 <span class="r-in"><span><span class="va">psi</span> <span class="op">&lt;-</span> <span class="fu"><a href="forde.html">forde</a></span><span class="op">(</span><span class="va">arf</span>, <span class="va">iris</span><span class="op">)</span></span></span>
 <span class="r-in"><span><span class="va">x_synth</span> <span class="op">&lt;-</span> <span class="fu">forge</span><span class="op">(</span><span class="va">psi</span>, n_synth <span class="op">=</span> <span class="fl">100</span><span class="op">)</span></span></span>
 <span class="r-in"><span></span></span>

diff --git a/reference/adversarial_rf.html b/reference/adversarial_rf.html
@@ -154,9 +154,9 @@ forests for density estimation and generative modeling. <em>arXiv</em> preprint,
     <div class="section level2">
     <h2 id="ref-examples">Examples<a class="anchor" aria-label="anchor" href="#ref-examples"></a></h2>
     <div class="sourceCode"><pre class="sourceCode r"><code><span class="r-in"><span><span class="va">arf</span> <span class="op">&lt;-</span> <span class="fu">adversarial_rf</span><span class="op">(</span><span class="va">iris</span><span class="op">)</span></span></span>
-<span class="r-out co"><span class="r-pr">#&gt;</span> Iteration: 0, Accuracy: 87.25%</span>
+<span class="r-out co"><span class="r-pr">#&gt;</span> Iteration: 0, Accuracy: 84.9%</span>
 <span class="r-wrn co"><span class="r-pr">#&gt;</span> <span class="warning">Warning: </span>executing %dopar% sequentially: no parallel backend registered</span>
-<span class="r-out co"><span class="r-pr">#&gt;</span> Iteration: 1, Accuracy: 41.55%</span>
+<span class="r-out co"><span class="r-pr">#&gt;</span> Iteration: 1, Accuracy: 37.79%</span>
 <span class="r-in"><span></span></span>
 <span class="r-in"><span></span></span>
 </code></pre></div>
